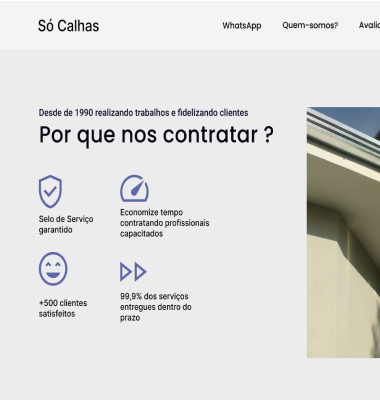
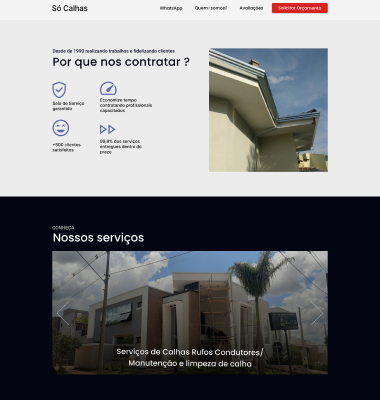
add update photos, fix width card and projects

diff --git a/src/CSS/Components/Card.module.css b/src/CSS/Components/Card.module.css
@@ -17,7 +17,7 @@
   top: 50%;
   left: 50%;
   transform: translate(-50%, -50%);
-  background: var(--cor-6);
+  background: var(--cor-11);
   width: 100%;
   height: 100%;
   display: flex;
@@ -25,10 +25,12 @@
   justify-content: center;
   opacity: 0;
   transition: .5s;
+
 }
 #card span:hover {
   opacity: .7;
   cursor: pointer;
+  color: var(--cor-1);
 }
 
 @media (max-width:1000px) {

diff --git a/src/Components/Projects.js b/src/Components/Projects.js
@@ -24,10 +24,14 @@ const Projects = () => {
         </div>
 
         <div id={styles.carroselCard}>
+          <Card img={Calhas} nome="Só Calhas" />
           <Card img={Imobiliaria} nome="Imobiliaria" />
           <Card img={Bolos} nome="Bolos Thay" />
-          <Card img={Calhas} nome="Calhas" />
+         
+        
         </div>
+
+       
 
 
       </div>
